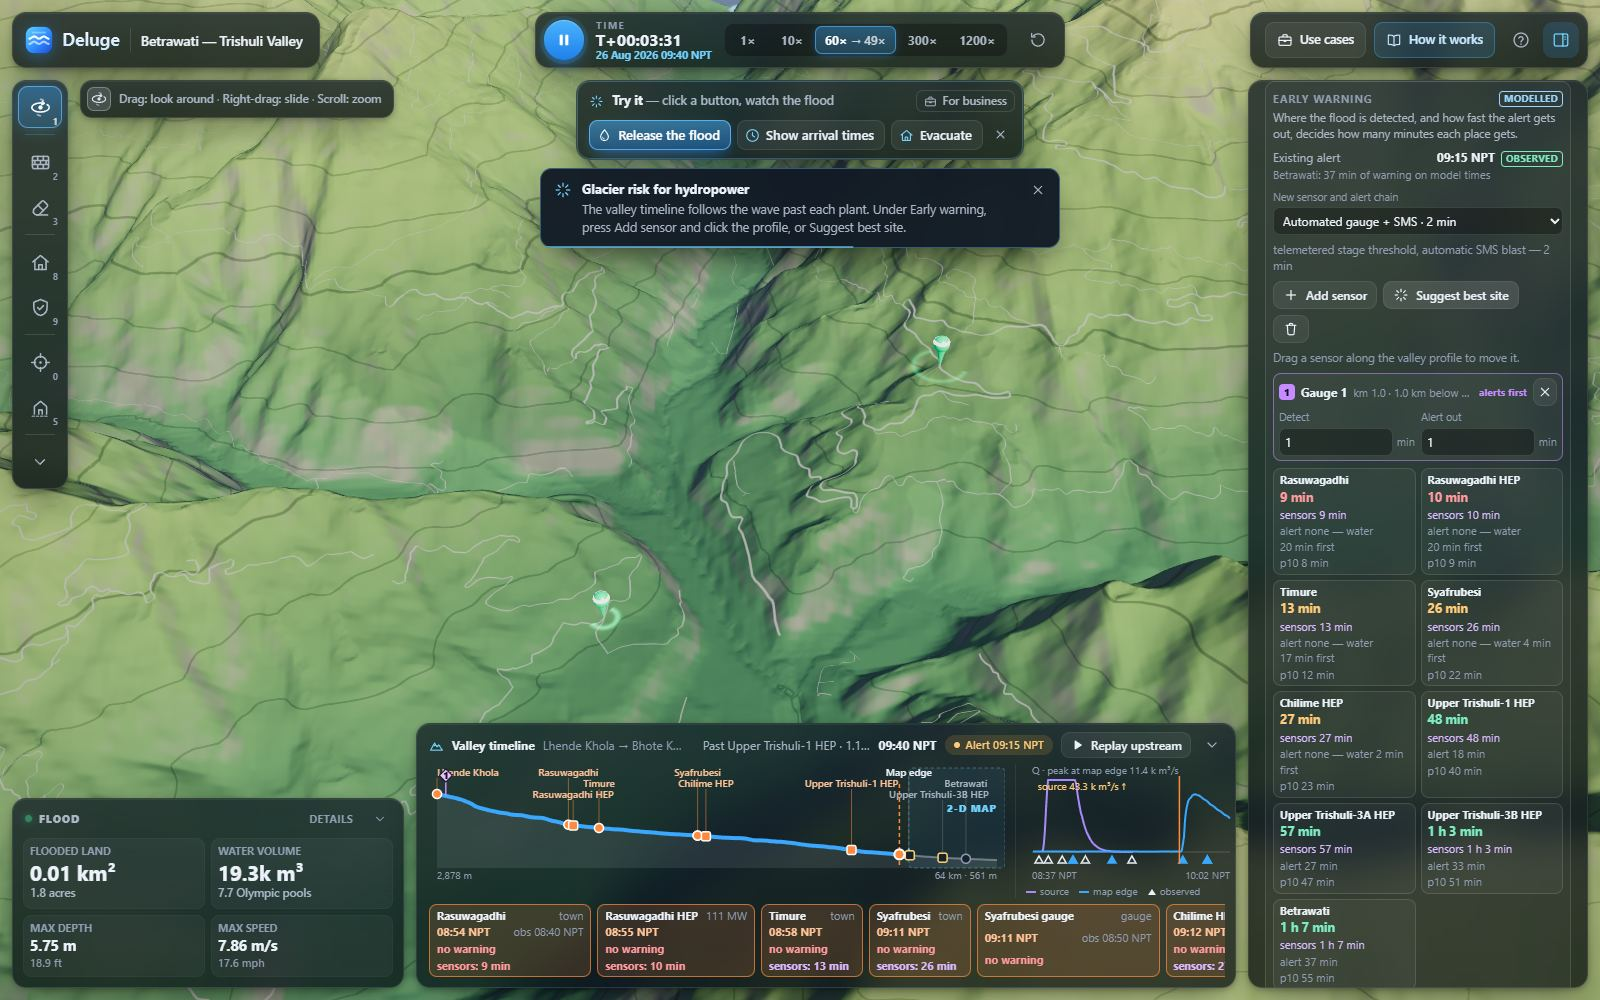
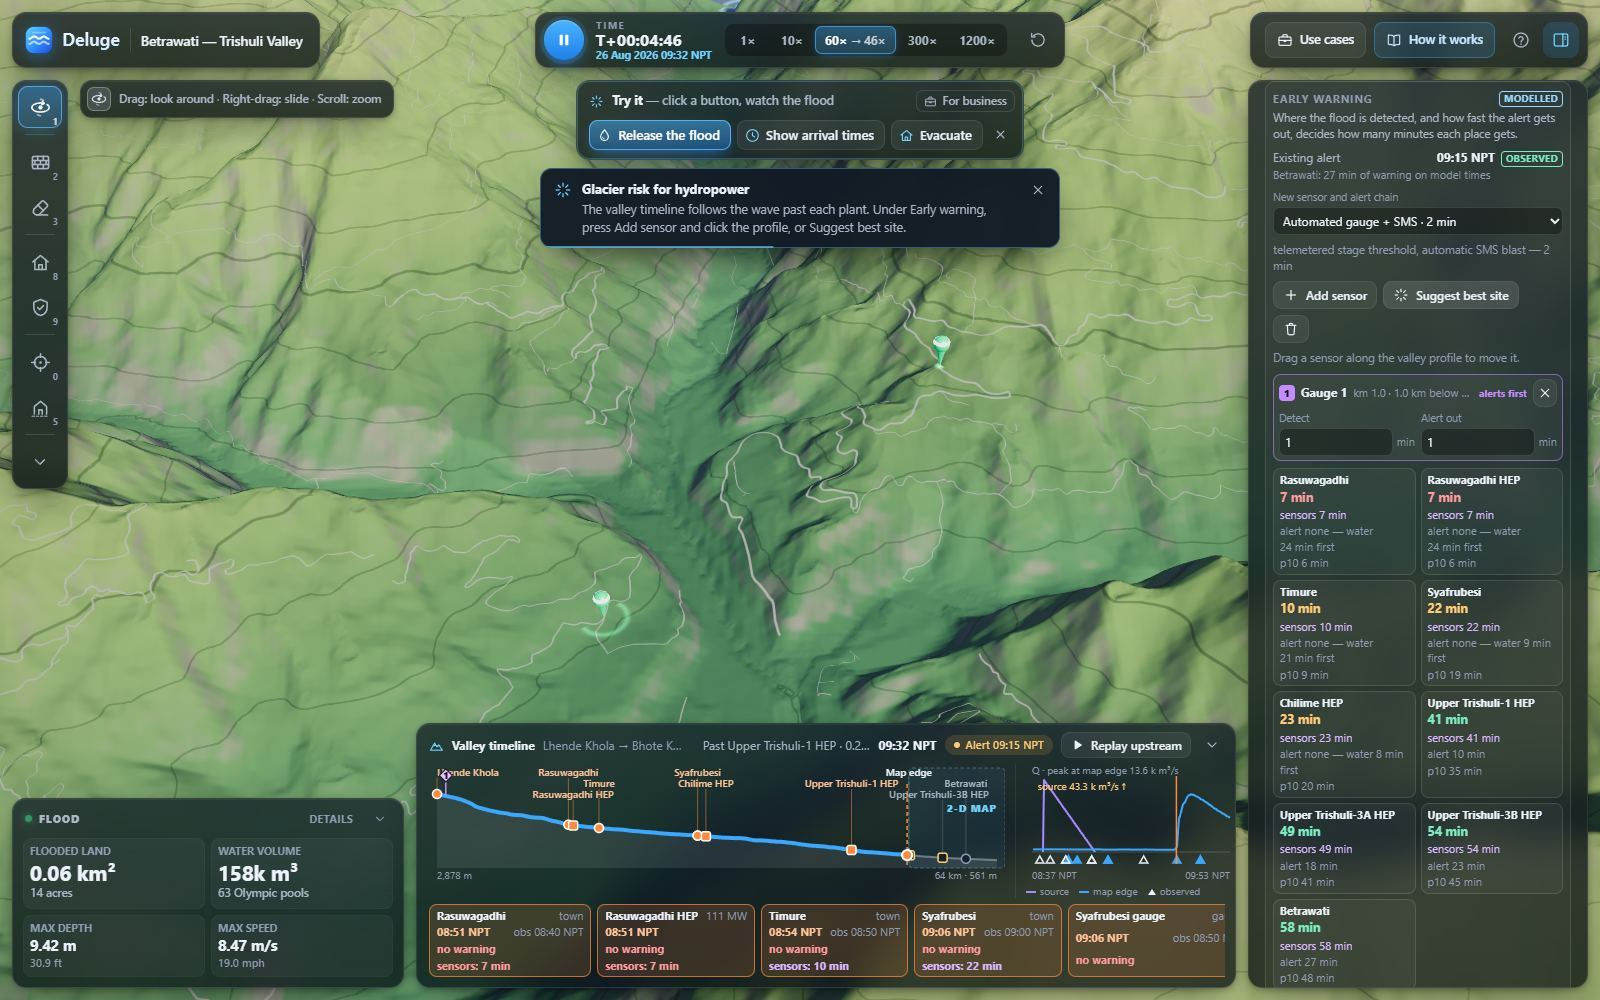
BUSINESS: retake the Nepal early-warning screenshot; Rasuwagadhi HEP gets 7 min from the optimised sensor

diff --git a/BUSINESS.md b/BUSINESS.md
@@ -188,7 +188,7 @@ hydropower schemes to Betrawati, where it took the only road bridge into Rasuwa.
 | Place (model front time) | Existing alert, 09:15 NPT | One automated gauge + SMS at Rasuwagadhi (2 min latency) | Optimiser's single sensor, 1 km below the source |
 |---|---|---|---|
 | Rasuwagadhi (08:51) | none — water first | none — water first | 7 min |
-| Rasuwagadhi HEP headworks (08:51) | none | none | 8 min |
+| Rasuwagadhi HEP headworks (08:51) | none | none | 7 min |
 | Timure (08:54) | none | 1 min | 10 min |
 | Syafrubesi (09:06) | none | 13 min | 22 min |
 | Chilime HEP powerhouse (09:07) | none | 14 min | 23 min |
